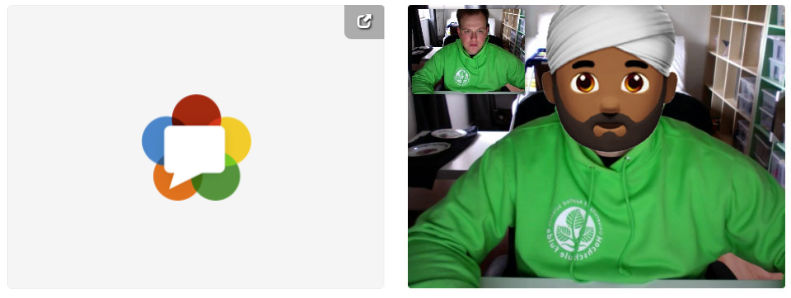
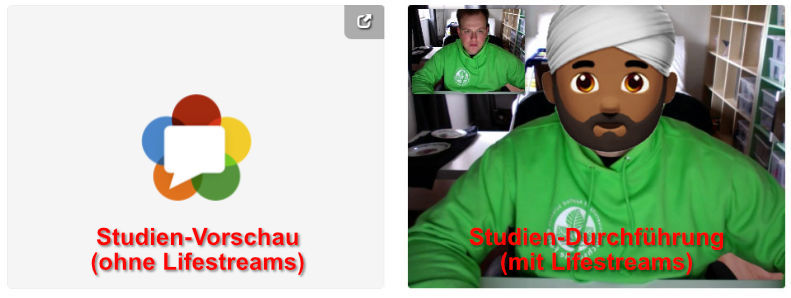
- add gesture recorder dummy image for study preview - fix issue, where screen recording not saved if study was canceled - fix issue, where annotations array not available in study preview - update one introduction image for study preview

Changed region(s): [[0.5765, 0.755, 0.9406, 0.9362], [0.091, 0.755, 0.3944, 0.9362]]

diff --git a/js/study-execution-moderator.js b/js/study-execution-moderator.js
@@ -2223,14 +2223,20 @@ var Moderator = {
 
                 initRerecordingButton(gestureRecorder, null);
             } else {
+                var dummyImage = document.createElement('img');
+                $(dummyImage).attr('src', translation.gestureRecorderDummyURL);
+                $(dummyImage).css({maxWidth: '672px', width: '100%'});
+                container.find('#gesture-recorder-container').empty().append(dummyImage).removeClass('hidden');
+                container.find('#gesture-recorder-container').addClass('text-center');
+
                 $(container).find('#btn-done, #btn-next-trigger').removeClass('disabled');
                 initRerecordingButton();
 
-                var gestureRecorderPlaceholder = $('#item-container-gesture-recorder').find('#gesture-recorder-without-introductions').clone().removeAttr('id');
-                container.find('#gesture-recorder-container').empty().append(gestureRecorderPlaceholder).removeClass('hidden');
-                container.find('#gesture-recorder-container .gr-playback').removeClass('hidden');
-                $(gestureRecorderPlaceholder).find('#gesture-recorder-nav').remove();
-                renderBodyJoints(gestureRecorderPlaceholder.find('#human-body'));
+//                var gestureRecorderPlaceholder = $('#item-container-gesture-recorder').find('#gesture-recorder-without-introductions').clone().removeAttr('id');
+//                container.find('#gesture-recorder-container').empty().append(gestureRecorderPlaceholder).removeClass('hidden');
+//                container.find('#gesture-recorder-container .gr-playback').removeClass('hidden');
+//                $(gestureRecorderPlaceholder).find('#gesture-recorder-nav').remove();
+//                renderBodyJoints(gestureRecorderPlaceholder.find('#human-body'));
 
                 appendAlert(container, ALERT_PREVIEW_DUMMY);
             }
@@ -2350,7 +2356,7 @@ var Moderator = {
                             currentIdentificationScene = event.data.index;
                             openPrototypeScene(event.data.scene, data.identification.length === 1 && data.identification[currentIdentificationIndex].transitionScenes.length === 1, data.identification[currentIdentificationIndex].transitionScenes[currentIdentificationScene].description);
 
-                            if (identificationStartTriggered) {
+                            if (identificationStartTriggered && !previewModeEnabled) {
                                 getGMT(function (timestamp) {
                                     var currentPhase = getCurrentPhase();
                                     var tempData = getLocalItem(currentPhase.id + '.tempSaveData');
@@ -2392,7 +2398,7 @@ var Moderator = {
                     $(container).find('#btn-next-trigger').remove();
                 }
 
-                if (scene) {
+                if (scene && !previewModeEnabled) {
                     getGMT(function (timestamp) {
                         var currentPhase = getCurrentPhase();
                         var tempData = getLocalItem(currentPhase.id + '.tempSaveData');
@@ -2604,7 +2610,6 @@ var Moderator = {
         }
 
         function renderIdentificationForTriggerItem(item, container, data) {
-            console.log(data);
             renderSceneTriggerItems(item, container, data);
 
             var searchedData = getGestureById(data.identification[currentIdentificationIndex].gestureId);
@@ -3426,17 +3431,31 @@ var Moderator = {
             });
 
             $(peerConnection).unbind(MESSAGE_CANCEL_SURVEY).bind(MESSAGE_CANCEL_SURVEY, function (event, payload) {
-                if (prototypeWindow) {
-                    prototypeWindow.close();
-                    prototypeWindow = null;
-                }
+                var currentPhase = getCurrentPhase();
+                if (currentPhase.format === IDENTIFICATION || currentPhase.format === EXPLORATION || currentPhase.format === GESTURE_TRAINING || currentPhase.format === SCENARIO) {
+                    if (prototypeWindow) {
+                        peerConnection.stopShareScreen(true, function () {
+                            prototypeWindow.close();
+                            prototypeWindow = null;
+                            console.log('screen stopped for canceling');
 
-                saveCurrentStatus(false);
-                peerConnection.stopRecording(function () {
-                    currentPhaseStepIndex = getThanksStepIndex();
-                    renderPhaseStep();
-                    updateProgress();
-                }, true);
+                            saveCurrentStatus(false);
+                            peerConnection.stopRecording(function () {
+                                console.log('recording stopped for canceling');
+                                currentPhaseStepIndex = getThanksStepIndex();
+                                renderPhaseStep();
+                                updateProgress();
+                            }, true);
+                        });
+                    }
+                } else {
+                    saveCurrentStatus(false);
+                    peerConnection.stopRecording(function () {
+                        currentPhaseStepIndex = getThanksStepIndex();
+                        renderPhaseStep();
+                        updateProgress();
+                    }, true);
+                }
             });
 
             $(peerConnection).unbind(MESSAGE_REQUEST_SYNC).bind(MESSAGE_REQUEST_SYNC, function (event, payload) {
@@ -3461,7 +3480,7 @@ var Moderator = {
 
                 $('#custom-modal').find('.modal-content').empty();
                 $('#custom-modal').modal('hide');
-                
+
                 renderPhaseStep();
 //                Moderator.resetScreenSharing();
 
@@ -3556,7 +3575,7 @@ var Moderator = {
             var videos = $(element).find('video');
             for (var i = 0; i < videos.length; i++) {
 //                if (new String($(videos[i]).attr('id')).includes('video') && !videos[i].playing) {
-                    videos[i].play();
+                videos[i].play();
 //                }
             }
         }

diff --git a/js/forms.js b/js/forms.js
@@ -930,7 +930,6 @@ function renderEditableDichotomousQuestion(item, studyData, answer) {
 }
 
 function renderGroupingQuestion(item, studyData, answer) {
-//    console.log(studyData, answer);
     if (studyData.parameters.multiselect === 'yes') {
         $(item).find('#multiselect').removeClass('hidden');
     } else {
@@ -942,9 +941,10 @@ function renderGroupingQuestion(item, studyData, answer) {
         if (answer) {
             if (answer.optionalAnswer !== '') {
                 $(item).find('#no-answer').addClass('hidden');
-                $(item).find('#no-optional-answer').addClass('hidden');
                 $(item).find('#optionalanswer-content').removeClass('hidden');
                 $(item).find('#optionalanswer-content .text').text(answer.optionalAnswer);
+            } else {
+                $(item).find('#no-optional-answer').removeClass('hidden');
             }
         }
     }
@@ -1072,9 +1072,10 @@ function renderGroupingQuestionGUS(item, studyData, answer) {
         if (answer) {
             if (answer.optionalAnswer !== '') {
                 $(item).find('#no-answer').addClass('hidden');
-                $(item).find('#no-optional-answer').addClass('hidden');
                 $(item).find('#optionalanswer-content').removeClass('hidden');
                 $(item).find('#optionalanswer-content .text').text(answer.optionalAnswer);
+            } else {
+                $(item).find('#no-optional-answer').removeClass('hidden');
             }
         }
     }
@@ -1466,6 +1467,7 @@ function renderAlternativeQuestion(item, studyData, answer) {
 
     if (answer) {
         if (answer.optionalAnswer !== '') {
+            $(item).find('#no-answer').addClass('hidden');
             $(item).find('#optionalanswer-content').removeClass('hidden');
             $(item).find('#optionalanswer-content .text').text(answer.optionalAnswer);
         } else {

diff --git a/externals/template-study.php b/externals/template-study.php
@@ -373,7 +373,7 @@ include '../includes/language.php';
             <div class="option-container"></div>
             <span class="label label-danger" id="no-answer"><i class="fa fa-bolt"></i> <span class="label-text"><?php echo $lang->noAnswer ?></span></span>
             <div class="hidden" id="optionalanswer-content" style="margin-top: 17px;"><span class="address"><?php echo $lang->ownAnswers ?>:</span> <span class="text"></span></div>
-            <span class="label label-warning" id="no-optional-answer"><span class="label-text"><?php echo $lang->noOwnAnswers ?></span></span>
+            <span class="label label-warning hidden" id="no-optional-answer"><span class="label-text"><?php echo $lang->noOwnAnswers ?></span></span>
         </div>
     </div>
 
@@ -412,7 +412,7 @@ include '../includes/language.php';
             <div class="option-container"></div>
             <span class="label label-danger" id="no-answer"><i class="fa fa-bolt"></i> <span class="label-text"><?php echo $lang->noAnswer ?></span></span>
             <div class="hidden" id="optionalanswer-content" style="margin-top: 17px;"><span class="address"><?php echo $lang->ownAnswers ?></span> <span class="text"></span></div>
-            <span class="label label-warning" id="no-optional-answer"><span class="label-text"><?php echo $lang->noOwnAnswers ?></span></span>
+            <span class="label label-warning hidden" id="no-optional-answer"><span class="label-text"><?php echo $lang->noOwnAnswers ?></span></span>
         </div>
     </div>
 
@@ -443,7 +443,7 @@ include '../includes/language.php';
             <div class="option-container"></div>
             <span class="label label-danger" id="no-answer"><i class="fa fa-bolt"></i> <span class="label-text"><?php echo $lang->noAnswer ?></span></span>
             <div class="hidden" id="optionalanswer-content" style="margin-top: 17px;"><span class="address"><?php echo $lang->ownAnswers ?>:</span> <span class="text"></span></div>
-            <span class="label label-warning" id="no-optional-answer"><span class="label-text"><?php echo $lang->noOwnAnswers ?></span></span>
+            <span class="label label-warning hidden" id="no-optional-answer"><span class="label-text"><?php echo $lang->noOwnAnswers ?></span></span>
         </div>
     </div>
 

diff --git a/externals/modal-cancel-study.php b/externals/modal-cancel-study.php
@@ -35,9 +35,26 @@ include '../includes/language.php';
 
                 if (isUploadRecordingNeededForPhaseStep(getCurrentPhase())) {
                     if (peerConnection) {
-                        peerConnection.stopRecording(function () {
-                            abortStudy();
-                        }, true);
+                        var currentPhase = getCurrentPhase();
+                        console.log('abort study', currentPhase, currentView);
+                        if (currentView === VIEW_MODERATOR && (currentPhase.format === IDENTIFICATION || currentPhase.format === EXPLORATION || currentPhase.format === GESTURE_TRAINING || currentPhase.format === SCENARIO)) {
+                            if (prototypeWindow) {
+                                peerConnection.stopShareScreen(true, function () {
+                                    prototypeWindow.close();
+                                    prototypeWindow = null;
+                                    console.log('screen stopped for canceling');
+
+                                    peerConnection.stopRecording(function () {
+                                        console.log('recording stopped for canceling');
+                                        abortStudy();
+                                    }, true);
+                                });
+                            }
+                        } else {
+                            peerConnection.stopRecording(function () {
+                                abortStudy();
+                            }, true);
+                        }
                     } else {
                         abortStudy();
                     }
